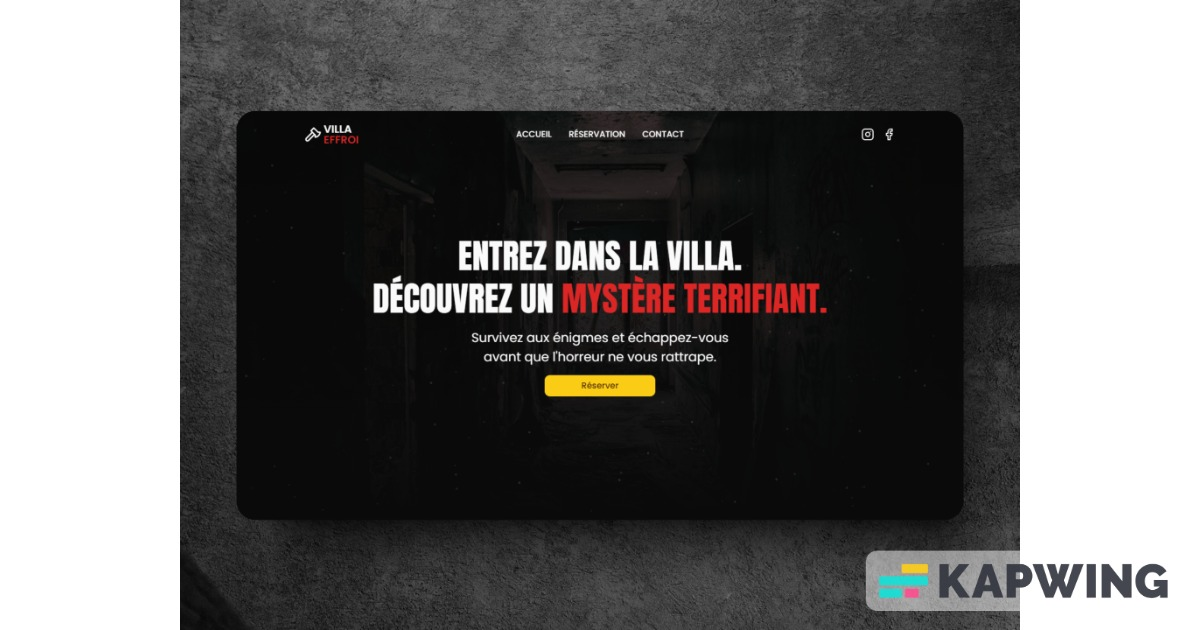
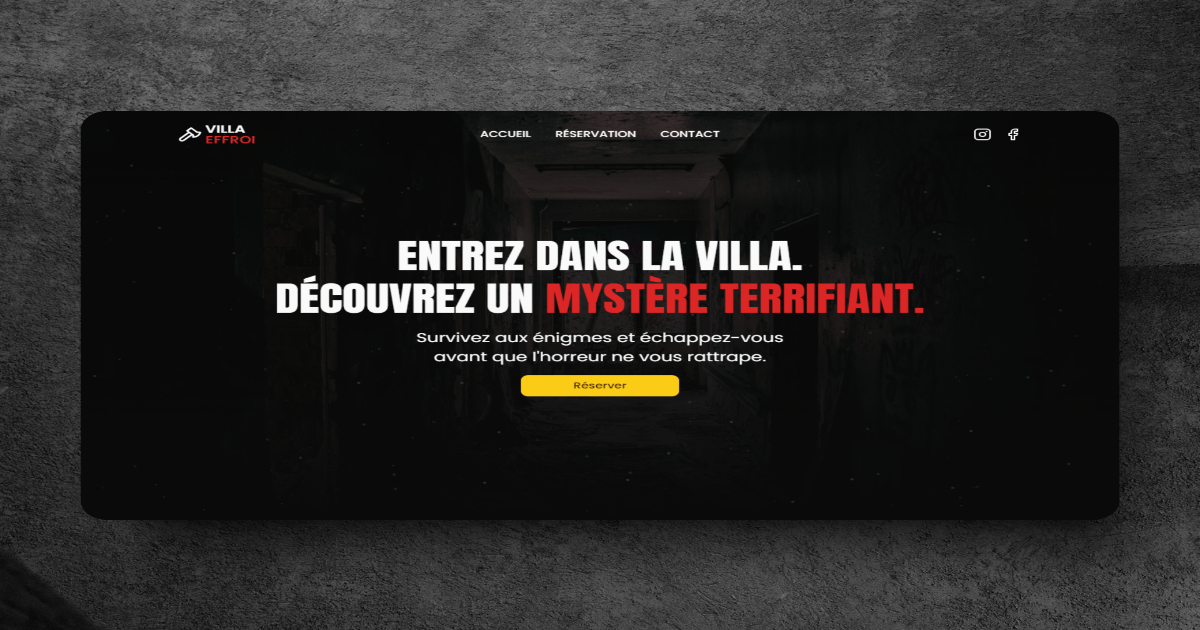
add og and twitter img

diff --git a/app/layout.tsx b/app/layout.tsx
@@ -7,6 +7,7 @@ import "./globals.css";
 export const metadata: Metadata = {
   title: "La Villa de l'Effroi",
   description: "Bienvenue à la Villa de l'Effroi, l'escape game de l'horreur !",
+  metadataBase: new URL('https://escape-game-pi.vercel.app/'),
 };
 
 export default function RootLayout({
@@ -36,7 +37,6 @@ export default function RootLayout({
         />
         <link rel="manifest" href="/site.webmanifest" />
         <link rel="mask-icon" href="/safari-pinned-tab.svg" color="#5bbad5" />
-        <meta property="og:image" content="https://escape-game-pi.vercel.app/opengraph-image.jpg?801d00732b9f70d9" />
         <meta name="msapplication-TileColor" content="#b91d47" />
         <meta name="theme-color" content="#ffffff" />
       </head>
